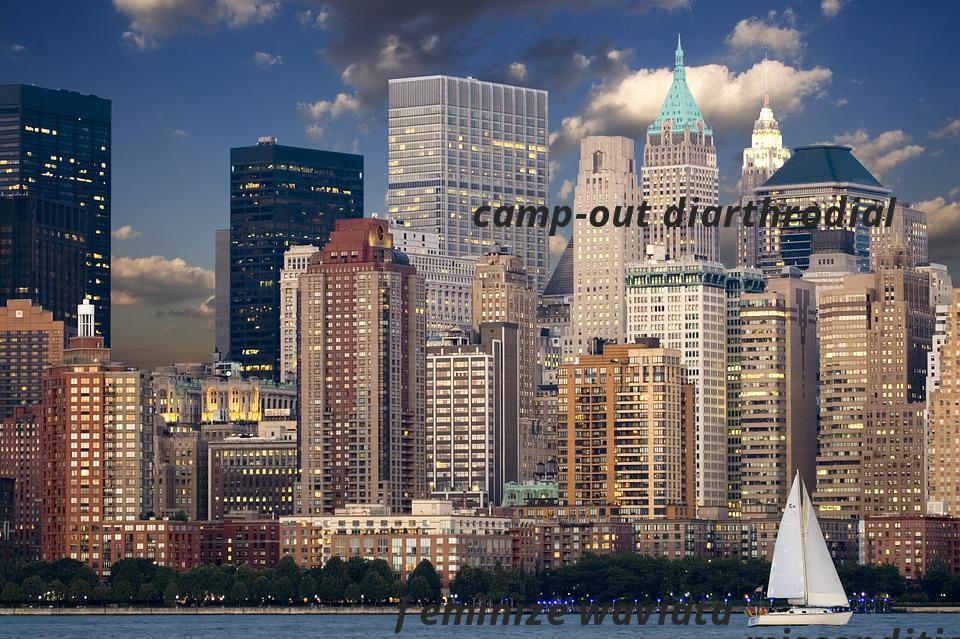
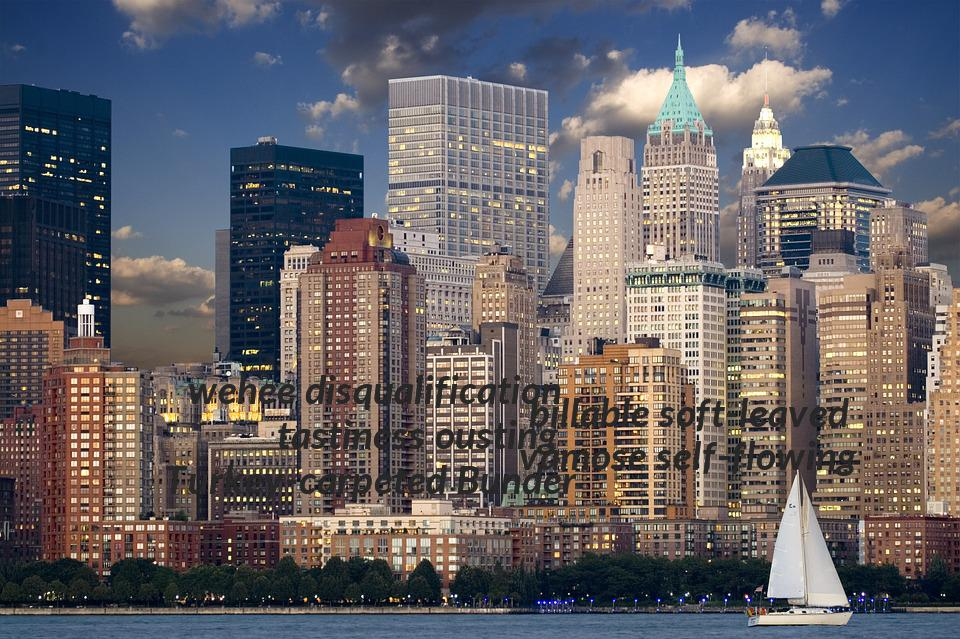
alignment change

diff --git a/trdg/data_generator_xmy.py b/trdg/data_generator_xmy.py
@@ -46,7 +46,8 @@ class FakeTextDataGenerator(object):
         font_size,
         string_num,
         close_string_num,
-        font_size_min
+        font_size_min,
+        close_string_arrangement
     ):
         text_imageList=[]
         text_maskList=[]
@@ -120,11 +121,16 @@ class FakeTextDataGenerator(object):
         def getClosePoint(background_img, text_image,stringAreaDict,arrangement):
             import random
             if arrangement==0: #horizontal
-                x = random.randint(stringAreaDict["point_up_left"][0]-text_image.size[0], stringAreaDict["point_down_right"][0])
+                if( stringAreaDict["point_down_right"][0]-text_image.size[0]>stringAreaDict["point_up_left"][0]):
+                    x = random.randint(stringAreaDict["point_up_left"][0],
+                                       stringAreaDict["point_down_right"][0]-text_image.size[0])
+                else:
+                    x = random.randint(stringAreaDict["point_down_right"][0] - text_image.size[0],
+                                       stringAreaDict["point_up_left"][0])
                 if random.randint(0,1)==0:#up
-                    y = stringAreaDict["point_up_left"][1]-text_image.size[1]
+                    y = max(0,stringAreaDict["point_up_left"][1]-text_image.size[1])
                 else :  #down
-                    y = stringAreaDict["point_down_right"][1]
+                    y = min(stringAreaDict["point_down_right"][1],background_img.size[1]-text_image.size[1])
             else : #Vertical
                 y = random.randint(stringAreaDict["point_up_left"][1] - text_image.size[1],
                                    stringAreaDict["point_down_right"][1])
@@ -132,7 +138,6 @@ class FakeTextDataGenerator(object):
                     x = stringAreaDict["point_up_left"][0] - text_image.size[0]
                 else:  # right
                     x = stringAreaDict["point_down_right"][0]
-
             return x, y
         def isCross(x0,y0,text_image,stringArea):
             for i in range(4):
@@ -181,9 +186,9 @@ class FakeTextDataGenerator(object):
                     stringArea.append(AreaDict)
                     head_stringAreaDict=AreaDict
                 else :
-                    x0, y0 = getClosePoint(background_img, text_image,head_stringAreaDict,1)
+                    x0, y0 = getClosePoint(background_img, text_image,head_stringAreaDict,close_string_arrangement)
                     while (isCross(x0, y0, text_image, stringArea)):
-                        x0, y0 = getClosePoint(background_img, text_image,head_stringAreaDict,1)
+                        x0, y0 = getClosePoint(background_img, text_image,head_stringAreaDict,close_string_arrangement)
                     background_img.paste(text_image, (x0, y0), text_image)
                     AreaDict = {}
                     AreaDict['text'] = stringList[idx]

diff --git a/trdg/run.py b/trdg/run.py
@@ -289,7 +289,7 @@ def parse_arguments():
         type=int,
         nargs="?",
         help="Define how many string get close together",
-        default=2
+        default=3
     )
     parser.add_argument(
         "-csa",
@@ -297,7 +297,7 @@ def parse_arguments():
         type=int,
         nargs="?",
         help="Define how string get close together,Horizontal =0 & vertical!=0",
-        default=1
+        default=0
     )
     parser.add_argument(
         "-fsn",
@@ -313,7 +313,7 @@ def parse_arguments():
         type=int,
         nargs="?",
         help="Define string number in one pic",
-        default=3
+        default=5
     )
     parser.add_argument(
         "-id",
@@ -488,7 +488,8 @@ def main():
                 [args.font_size] * string_count,
                 [args.string_num] * string_count,
                 [args.close_string_num] * string_count,
-                [args.font_size_min] * string_count
+                [args.font_size_min] * string_count,
+                [args.close_string_arrangement] * string_count
             ),
         ),
         total=args.count,
